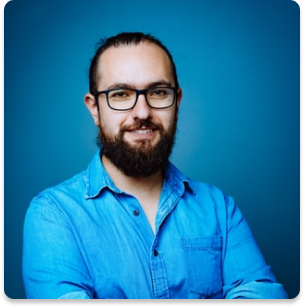
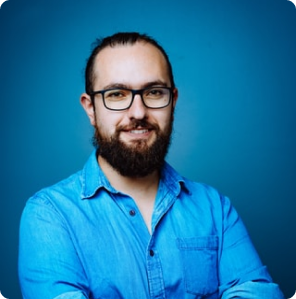
змінила стилі фото team

diff --git a/src/sass/index.css b/src/sass/index.css
@@ -23,6 +23,10 @@ body {
   line-height: 1.21;
 }
 
+html {
+  scroll-behavior: smooth;
+}
+
 .visually-hidden {
   position: absolute;
   width: 1px;
@@ -857,7 +861,6 @@ textarea {
   position: absolute;
   top: 50%;
   left: 50%;
-  max-width: none;
   width: 566px;
   transform: translate(-48%, -50%);
 }
@@ -1240,28 +1243,38 @@ textarea {
   }
 }
 
-.team__item {
-  width: 280px;
-  border-radius: 15px;
-  margin-bottom: 24px;
+.team__list {
+  display: flex;
+  flex-wrap: wrap;
+  justify-content: center;
 }
-@media screen and (min-width: 768px) and (max-width: 1279px) {
+@media screen and (max-width: 768px) {
+  .team__list {
+    gap: 24px;
+  }
+}
+@media screen and (min-width: 768px) {
+  .team__list {
+    gap: 40px 32px;
+  }
+}
+
+.team__item {
+  border-radius: 15px;
+}
+@media screen and (min-width: 480px) {
+  .team__item {
+    width: 280px;
+  }
+}
+@media screen and (min-width: 768px) {
   .team__item {
     width: 336px;
-    margin-right: 32px;
-  }
-  .team__item:nth-child(even) {
-    margin-right: 0px;
   }
 }
 @media screen and (min-width: 1280px) {
   .team__item {
     width: 288px;
-    margin-right: 32px;
-    margin-bottom: 0;
-  }
-  .team__item:last-child {
-    margin-right: 0px;
   }
 }
 
@@ -1281,7 +1294,6 @@ textarea {
 }
 
 .team-foto {
-  box-shadow: 0px 4px 4px rgba(0, 0, 0, 0.25);
   border-radius: 10px;
 }
 

diff --git a/src/sass/layouts/_team.scss b/src/sass/layouts/_team.scss
@@ -19,7 +19,6 @@
     text-align: center;      
 }
 .text {   
- 
     font-weight: 500;
     font-size: 14px;
     line-height: 1.7;
@@ -51,19 +50,17 @@
   }
 
 .team__item {
-
     border-radius: 15px;
-
     @media screen and (min-width: 480px) {
         width: 280px;
     }
 
-    @media screen and (min-width: 768px) and (max-width: 1279px) {
+    @media screen and (min-width: 768px) {
         width: 336px;
     }
     
     @media screen and (min-width: 1280px) {
-            width: 288px;
+        width: 288px;
         }
 }
 .team-picture {
@@ -81,7 +78,6 @@
 }
 
 .team-foto {
-    box-shadow: 0px 4px 4px rgba(0, 0, 0, 0.25);
     border-radius: 10px;
 }
 
